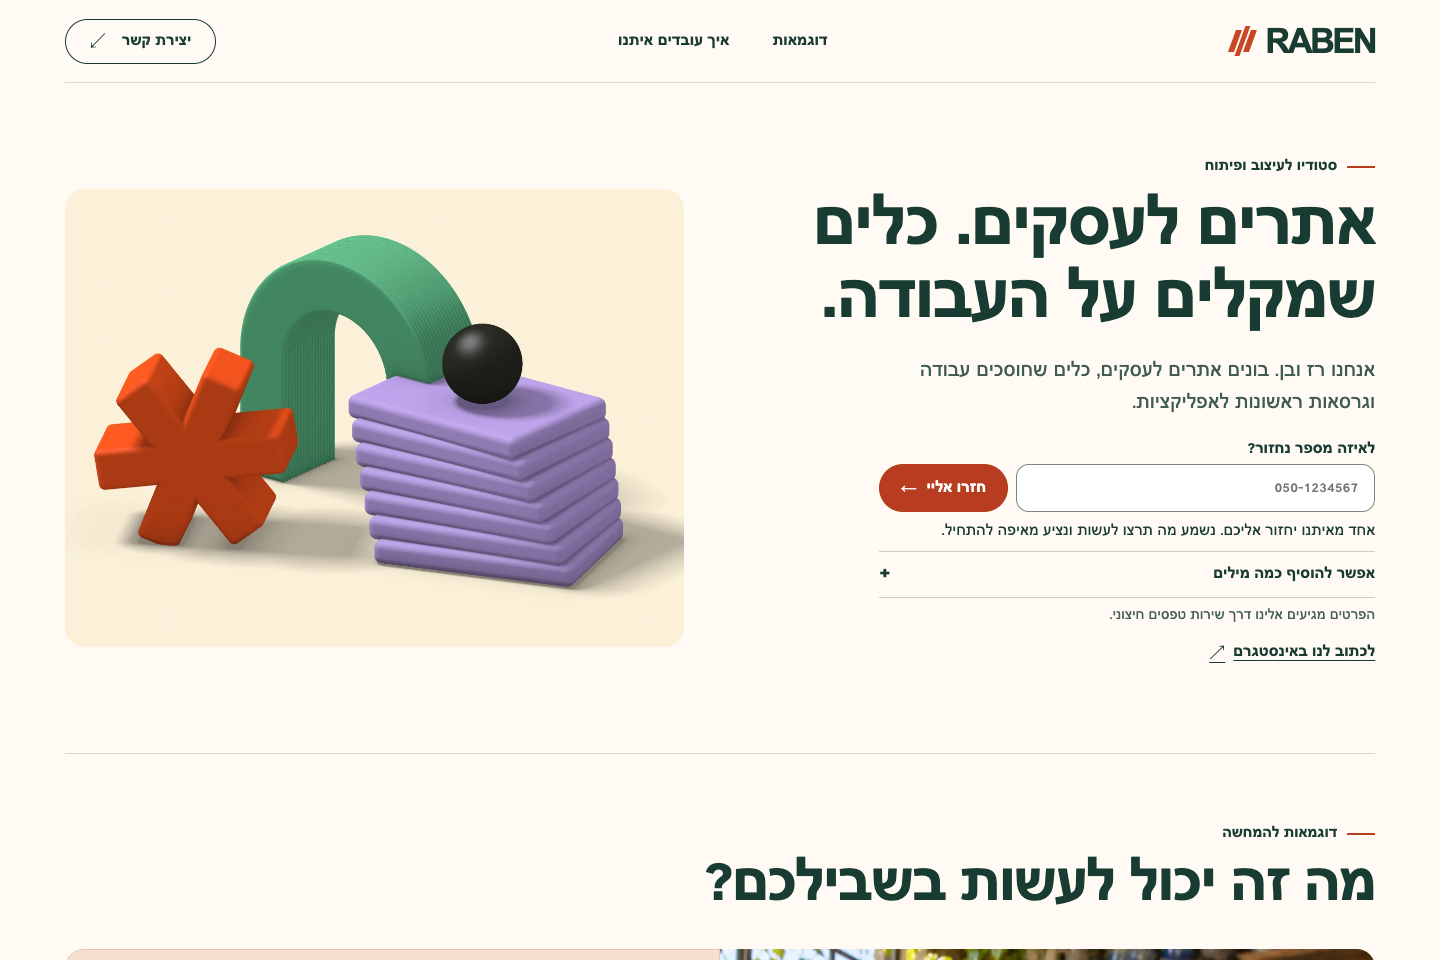
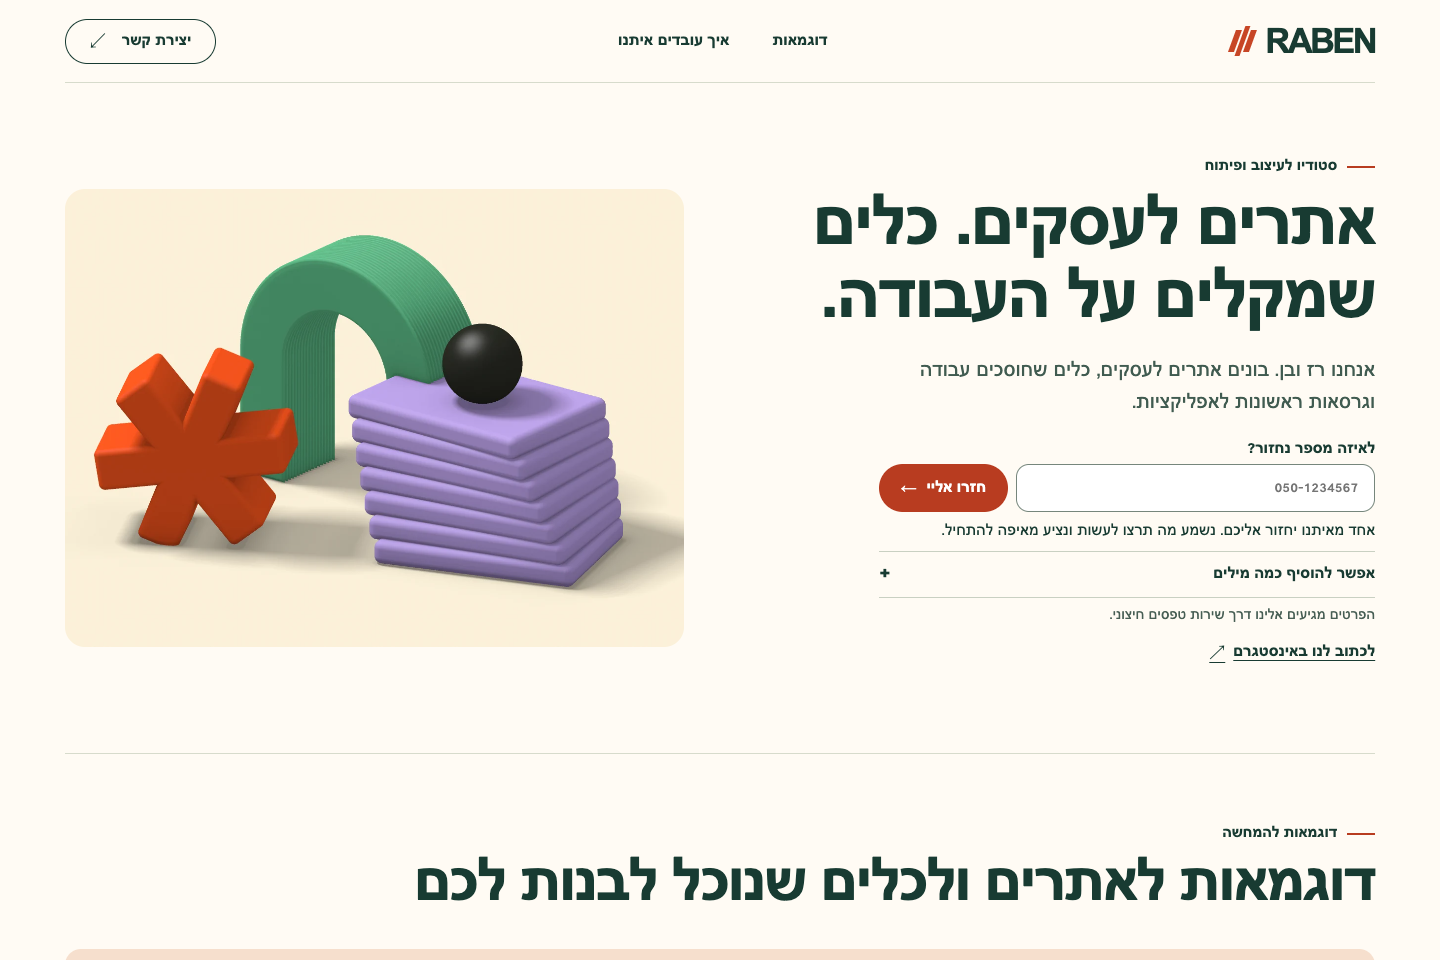
Explain the customer benefit before each gallery illustration

Changed region(s): [[0.2812, 0.875, 0.9688, 0.9375], [0.5, 0.9688, 0.9688, 1.0]]

diff --git a/dist/gallery-stories.js b/dist/gallery-stories.js
@@ -254,43 +254,43 @@
 
   window.RABEN_STORIES = [
     {
-      id: 'ceramics', category: 'clients', title: 'לבחור מועד לסדנה',
-      alt: 'ספל קרמיקה בזיגוג כחול בסטודיו', caption: 'בסדנת הקרמיקה מכינים ספל בזיגוג כחול. בוחרים תאריך ורואים כמה מקומות נשארו במפגש.',
+      id: 'ceramics', category: 'clients', title: 'אתר הרשמה לסדנת קרמיקה',
+      alt: 'ספל קרמיקה בזיגוג כחול בסטודיו', caption: 'המשתתפים רואים באילו מפגשים נשאר מקום. לבעלת הסדנה יש פחות הודעות לענות עליהן לפני כל הרשמה.',
       cta: 'נדבר על אתר לסדנה שלי', kind: website, interest: 'אתר לסדנה עם בחירת מועד', ...pottery
     },
     {
-      id: 'bakery', category: 'clients', title: 'לבחור עוגה לפי מספר האורחים',
-      alt: 'עוגת תותים במאפייה', caption: 'במאפייה בוחרים לכמה אנשים תספיק עוגת התותים, ומיד רואים את הגודל והמחיר.',
+      id: 'bakery', category: 'clients', title: 'עמוד להזמנת עוגה ממאפייה ביתית',
+      alt: 'עוגת תותים במאפייה', caption: 'הלקוחות בוחרים לכמה אורחים מיועדת העוגה ורואים מיד את הגודל והמחיר, עוד לפני שפונים לאופה.',
       cta: 'נדבר על אתר למוצרים שלי', kind: website, interest: 'עמוד מוצרים עם בחירת גודל ומחיר', ...cake
     },
     {
-      id: 'guitar', category: 'clients', title: 'למצוא שעה לשיעור גיטרה ראשון',
-      alt: 'גיטרה בשיעור נגינה', caption: 'תלמידים בוחרים שיעור אישי או זוגי ורואים מתי אפשר להגיע.',
+      id: 'guitar', category: 'clients', title: 'אתר לקביעת שיעור גיטרה',
+      alt: 'גיטרה בשיעור נגינה', caption: 'התלמידים בוחרים סוג שיעור ורואים מתי המורה פנוי. כך קל למצוא שעה שמתאימה לשני הצדדים.',
       cta: 'נדבר על אתר לשיעורים שלי', kind: website, interest: 'אתר לשיעורים עם הצגת שעות פנויות', ...lesson
     },
     {
-      id: 'technician', category: 'work', title: 'לסיים ביקור ולראות מי הבא בתור',
-      alt: 'טכנאית בודקת מכונת כביסה בביקור בית', caption: 'הטכנאית מסמנת שתיקון מכונת הכביסה הסתיים, ומיד רואה אצל מי הביקור הבא ומתי הוא מתחיל.',
+      id: 'technician', category: 'work', title: 'יומן ביקורי בית לטכנאית',
+      alt: 'טכנאית בודקת מכונת כביסה בביקור בית', caption: 'בסיום תיקון הטכנאית מסמנת שהביקור הושלם. היומן מראה לה לאן להמשיך ובאיזו שעה להגיע.',
       cta: 'נדבר על יומן לעבודה שלי', kind: tool, interest: 'יומן לניהול ביקורים בשטח', ...visits
     },
     {
-      id: 'community', category: 'work', title: 'לדעת למי עוד צריך לחזור',
-      alt: 'פעילות במרכז קהילתי', caption: 'הצוות יכול להתמקד בפניות על חוגים שעדיין מחכות לתשובה.',
+      id: 'community', category: 'work', title: 'מעקב אחרי פניות למרכז קהילתי',
+      alt: 'פעילות במרכז קהילתי', caption: 'כשמתחלפת משמרת, הצוות רואה אילו הורים עדיין מחכים לתשובה על חוג ולמי כבר חזרו.',
       cta: 'נדבר על מעקב אחרי פניות', kind: tool, interest: 'מעקב אחרי פניות שממתינות לתשובה', ...inbox
     },
     {
-      id: 'volunteer', category: 'work', title: 'למצוא מי יאסוף את ארגזי הירקות',
-      alt: 'מתנדבים עם ארגזי ירקות לחלוקה', caption: 'לצוות החלוקה נשאר לאסוף ארגזי ירקות. בוחרים מי ייצא לאיסוף, וכולם רואים שהמשימה אוישה.',
+      id: 'volunteer', category: 'work', title: 'לוח משימות לחלוקת סלי מזון',
+      alt: 'מתנדבים עם ארגזי ירקות לחלוקה', caption: 'הרכזת משבצת מתנדב לאיסוף ארגזים. כולם רואים מי אחראי ומה עוד נשאר לעשות.',
       cta: 'נדבר על שיבוץ בצוות שלי', kind: tool, interest: 'כלי לשיבוץ מתנדבים ומשמרות', ...assign
     },
     {
-      id: 'study', category: 'ideas', title: 'למצוא עם מי לתרגל אנגלית בערב',
-      alt: 'חוברת תרגול אנגלית במפגש לימוד', caption: 'רוצים לתרגל שיחה באנגלית? מסך התאמה מוצא שותף ללימוד שפנוי בערב כמוכם.',
+      id: 'study', category: 'ideas', title: 'אפליקציה למציאת שותף ללימוד',
+      alt: 'חוברת תרגול אנגלית במפגש לימוד', caption: 'רוצים לתרגל אנגלית בערב? האפליקציה מציעה מישהו שרוצה ללמוד אותו דבר ופנוי באותן שעות.',
       cta: 'נדבר על הרעיון שלי', kind: product, interest: 'אפליקציה להתאמה בין אנשים', ...match
     },
     {
-      id: 'hiking', category: 'ideas', title: 'לקבוע יום לטיול בהצבעה',
-      alt: 'מטיילים נעזרים במפת שבילים', caption: 'חברי הקבוצה בוחרים יום ליציאה לשביל ורואים איזה מועד מוביל, גם כשההצבעה צמודה.',
+      id: 'hiking', category: 'ideas', title: 'כלי לבחירת מועד לטיול עם חברים',
+      alt: 'מטיילים נעזרים במפת שבילים', caption: 'כל אחד מצביע ליום שנוח לו. הקבוצה רואה איזה יום מתאים לרוב החברים וחוסכת את ספירת התשובות בצ׳אט.',
       cta: 'נדבר על כלי לקבוצה שלי', kind: product, interest: 'רעיון להצבעות ותיאום בקבוצה', ...poll
     }
   ];

diff --git a/dist/gallery.css b/dist/gallery.css
@@ -15,8 +15,13 @@
   line-height: 1.1;
   text-wrap: balance;
 }
-.gallery-description, .gallery-links { display: flex; align-items: center; flex-wrap: wrap; }
-.gallery-description { justify-content: space-between; gap: 1rem; }
+.gallery-links { display: flex; align-items: center; flex-wrap: wrap; }
+.story-intro {
+  padding: 1rem 1.2rem;
+  background: var(--stage);
+  border-radius: 1rem 1rem 0 0;
+}
+.story-intro p { margin-block-start: .35rem; line-height: 1.5; max-width: 70ch; text-wrap: pretty; }
 .gallery-play {
   position: absolute;
   inset-inline-end: .75rem;
@@ -29,7 +34,7 @@
   background: var(--paper);
 }
 .gallery-play:hover { background: white; }
-.gallery-pair { display: grid; grid-template-columns: 1fr 1fr; overflow: clip; border-radius: 1.15rem; }
+.gallery-pair { display: grid; grid-template-columns: 1fr 1fr; overflow: clip; border-radius: 0 0 1.15rem 1.15rem; }
 .gallery-picture { background: #eee5d8; position: relative; min-width: 0; }
 .gallery-picture img { width: 100%; height: 100%; position: absolute; inset: 0; object-fit: cover; }
 .gallery-stage {
@@ -43,10 +48,8 @@
   min-height: clamp(27rem, 34vw, 32rem);
   padding: clamp(1rem, 2.6vw, 2.65rem);
 }
-.gallery-description { padding-block-start: 1.15rem; align-items: start; }
-.gallery-description h3, .static-workshop h3 { font-size: clamp(1.4rem, 2vw, 1.95rem); line-height: 1.15; }
-.gallery-description p { max-width: 56ch; margin-top: .45rem; line-height: 1.55; }
-.gallery-links { gap: .5rem 1.15rem; }
+.story-intro h3, .static-workshop h3 { font-size: clamp(1.4rem, 2vw, 1.95rem); line-height: 1.15; }
+.gallery-links { gap: .5rem 1.15rem; margin-block-start: 1rem; }
 .gallery-links a, .static-ideas a, .static-ideas summary { min-height: 44px; display: inline-flex; align-items: center; }
 .gallery-cta { background: var(--orange); color: white; text-decoration: none; border-radius: 999px; padding: .62rem 1.15rem; font-weight: 700; }
 .gallery-cta:hover { background: #94311d; }
@@ -58,9 +61,9 @@
 @media (max-width: 720px) {
   .gallery-heading h2 { max-width: 20ch; }
   .gallery-pair { grid-template-columns: minmax(0, 1fr); }
-  .gallery-picture { height: clamp(10rem, 48vw, 15rem); }
+  .gallery-picture { height: clamp(8rem, 35vw, 13rem); }
   .gallery-stage { min-height: 23rem; border-radius: 0 0 1.15rem 1.15rem; }
-  .gallery-description { align-items: start; }
+  .story-intro { padding: .9rem 1rem; }
 }
 .static-dates { border: 0; margin-inline: 0; padding: .5rem 0; }
 .static-dates label { display: block; padding: .4rem; }

diff --git a/dist/index.html b/dist/index.html
@@ -91,10 +91,14 @@
   <div id="story-gallery">
     <header class="gallery-heading">
       <p class="studio-line"><span aria-hidden="true"></span> דוגמאות להמחשה</p>
-      <h2 id="gallery-heading">מה זה יכול לעשות בשבילכם?</h2>
+      <h2 id="gallery-heading">דוגמאות לאתרים ולכלים שנוכל לבנות לכם</h2>
     </header>
     <div data-gallery-enhanced hidden>
       <article aria-labelledby="current-story-title">
+        <header class="story-intro">
+          <h3 data-gallery-title id="current-story-title"></h3>
+          <p data-gallery-caption></p>
+        </header>
         <div class="gallery-pair">
           <div class="gallery-picture">
             <img data-gallery-photo width="1100" height="820" decoding="async" alt="">
@@ -102,20 +106,18 @@
           </div>
           <div class="gallery-stage"><div data-gallery-demo></div></div>
         </div>
-        <div class="gallery-description">
-          <div>
-            <h3 data-gallery-title id="current-story-title"></h3>
-            <p data-gallery-caption></p>
-          </div>
           <div class="gallery-links">
             <a class="gallery-cta" data-gallery-cta href="#contact">נדבר על דוגמה כזאת</a>
             <a class="gallery-share" data-gallery-share href="#story-ceramics">העתקת קישור</a>
           </div>
-        </div>
       </article>
       <span class="journey-sr" data-gallery-status role="status" aria-atomic="true"></span>
     </div>
     <div data-gallery-static>
+      <header class="story-intro">
+        <h3>אתר הרשמה לסדנת קרמיקה</h3>
+        <p>המשתתפים רואים באילו מפגשים נשאר מקום. לבעלת הסדנה יש פחות הודעות לענות עליהן לפני כל הרשמה.</p>
+      </header>
       <div class="gallery-pair">
         <div class="gallery-picture"><img loading="lazy" src="assets/gallery/ceramics-small.webp" width="460" height="345" alt="ספל עם זיגוג כחול על שולחן העבודה בסדנת קרמיקה"></div>
         <div class="gallery-stage"><div class="static-workshop">

diff --git a/README.md b/README.md
@@ -1,6 +1,6 @@
 # RABEN · הסטודיו של רז ובן
 
-אתר בעברית לעיצוב ופיתוח אתרים, כלים לעבודה ומוצרים דיגיטליים. במסך הפתיחה מופיע טופס לבקשת שיחה עם רז ובן. אפשר גם לפנות אליהם בהודעה באינסטגרם. גלריית „מה זה יכול לעשות בשבילכם?” מציגה שמונה דוגמאות להמחשה. בכל דוגמה רואים צילום של העסק או הפעילות ולצידו מסך שאפשר לנסות. העמוד כתוב ב־HTML, CSS ו־JavaScript ופועל ללא שלב בנייה.
+אתר בעברית לעיצוב ופיתוח אתרים, כלים לעבודה ומוצרים דיגיטליים. במסך הפתיחה מופיע טופס לבקשת שיחה עם רז ובן. אפשר גם לפנות אליהם בהודעה באינסטגרם. גלריית „דוגמאות לאתרים ולכלים שנוכל לבנות לכם” מציגה שמונה דוגמאות להמחשה. לפני כל צילום מופיעים שם הפתרון והסבר קצר על מה שהוא מאפשר לעשות. ליד הצילום רואים את המסך בפעולה. העמוד כתוב ב־HTML, CSS ו־JavaScript ופועל ללא שלב בנייה.
 
 ![מסך הבית במחשב](docs/screenshots/desktop.png)
 
